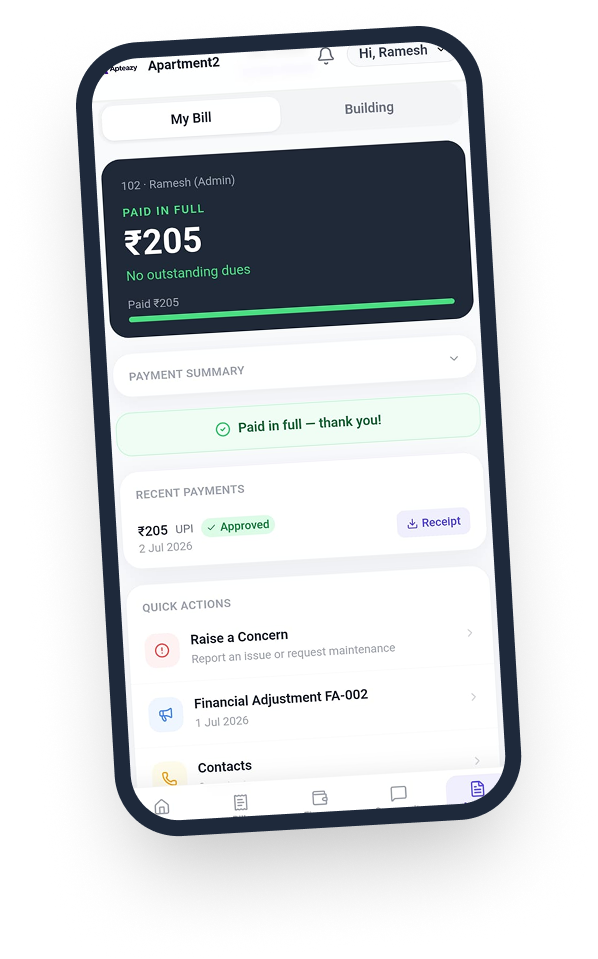
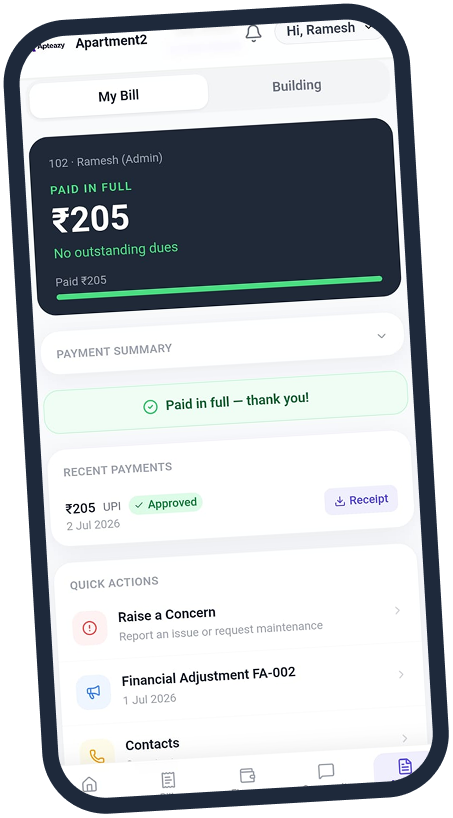
feat: add AppShowcase component with dual phone mockups and CTA buttons

Changed region(s): [[0.0, 0.0, 1.0, 1.0], [0.5563, 0.0917, 0.7108, 0.1222], [0.6799, 0.5196, 0.7726, 0.5501]]

diff --git a/src/components/AppShowcase.jsx b/src/components/AppShowcase.jsx
@@ -29,7 +29,7 @@ export default function AppShowcase() {
             }}
           />
 
-          {/* Background Wavy Lines from Reference Design */}
+          {/* Background Wavy Lines SVG */}
           <div className="absolute right-0 top-1/2 -translate-y-1/2 w-[480px] h-[360px] pointer-events-none opacity-40 z-0">
             <svg className="w-full h-full stroke-purple-300" fill="none" viewBox="0 0 400 300">
               <path d="M50 300 C 150 200, 250 250, 350 150 C 400 100, 450 50, 500 0" strokeWidth="1.5" strokeDasharray="6 4" />
@@ -43,7 +43,7 @@ export default function AppShowcase() {
 
           <div className="grid grid-cols-1 lg:grid-cols-12 gap-10 lg:gap-6 items-center relative z-10">
             
-            {/* Left Column: Headline, Subtitle, Buttons, Badges */}
+            {/* Left Column: Clean Bold Headline, Subtitle, Buttons, Badges */}
             <div className="lg:col-span-6 space-y-6 text-left">
               
               {/* Main Headline */}
@@ -53,7 +53,7 @@ export default function AppShowcase() {
                 More community.
                 <br />
                 <span>That’s </span>
-                <span className="text-[#635BFF]">Apteazy.</span>
+                <span className="text-[#635BFF] font-extrabold">Apteazy.</span>
               </h2>
 
               {/* Subtitle */}
@@ -78,14 +78,14 @@ export default function AppShowcase() {
                 <motion.button
                   whileHover={{ scale: 1.03, y: -2 }}
                   whileTap={{ scale: 0.98 }}
-                  onClick={() => openWhatsApp('Hi, I want to start a free trial of Apteazy for my apartment')}
-                  className="inline-flex items-center gap-2 px-6 py-3.5 rounded-2xl bg-white hover:bg-slate-50 text-[#0F172A] font-bold text-[14px] border border-[#E2E8F0] shadow-[0_4px_16px_rgba(0,0,0,0.04)] transition-colors cursor-pointer"
+                  onClick={() => openWhatsApp('Hi, I want to book a demo of Apteazy for my apartment')}
+                  className="inline-flex items-center gap-2 px-6 py-3.5 rounded-2xl bg-white hover:bg-slate-50 text-[#0F172A] font-bold text-[14px] border border-[#E2E8F0] shadow-xs transition-colors cursor-pointer"
                 >
                   <span>Book a Demo</span>
                 </motion.button>
               </div>
 
-              {/* Bottom Feature Badges matching reference screenshot */}
+              {/* Bottom Feature Badges */}
               <div className="flex flex-wrap items-center gap-x-6 gap-y-2 pt-3 text-[12.5px] font-semibold text-slate-600">
                 <div className="flex items-center gap-1.5">
                   <div className="w-4 h-4 rounded-full bg-purple-100 text-[#635BFF] flex items-center justify-center">
@@ -109,20 +109,20 @@ export default function AppShowcase() {
 
             </div>
 
-            {/* Right Column: Dual Phone Mockups cleanly formatted from assets */}
-            <div className="lg:col-span-6 flex justify-center items-center gap-3 sm:gap-5 pt-6 lg:pt-0">
+            {/* Right Column: Perfectly Aligned Dual Phone Mockups with Soft Natural Shadows */}
+            <div className="lg:col-span-6 flex justify-center items-center gap-4 sm:gap-6 pt-6 lg:pt-0">
               
-              {/* Left Phone (Standing straight) */}
+              {/* Left Phone */}
               <motion.div 
                 whileHover={{ y: -6, scale: 1.02 }}
                 transition={{ duration: 0.3 }}
-                className="w-1/2 max-w-[240px] flex-shrink-0"
+                className="w-1/2 max-w-[230px] flex-shrink-0"
               >
                 {!leftErr ? (
                   <img
                     src="/assets/showcase-phone-left.png"
                     alt="Apteazy Resident Home Screen"
-                    className="w-full h-auto object-contain drop-shadow-[0_20px_40px_rgba(99,91,255,0.16)]"
+                    className="w-full h-auto object-contain filter drop-shadow-[0_14px_28px_rgba(15,23,42,0.1)] transition-all duration-300 hover:drop-shadow-[0_20px_35px_rgba(99,91,255,0.18)]"
                     onError={() => setLeftErr(true)}
                   />
                 ) : (
@@ -132,17 +132,17 @@ export default function AppShowcase() {
                 )}
               </motion.div>
 
-              {/* Right Phone (Slightly offset) */}
+              {/* Right Phone */}
               <motion.div 
                 whileHover={{ y: -6, scale: 1.02 }}
                 transition={{ duration: 0.3 }}
-                className="w-1/2 max-w-[240px] flex-shrink-0 pt-6"
+                className="w-1/2 max-w-[230px] flex-shrink-0"
               >
                 {!rightErr ? (
                   <img
                     src="/assets/showcase-phone-right.png"
                     alt="Apteazy Notices Screen"
-                    className="w-full h-auto object-contain drop-shadow-[0_20px_40px_rgba(99,91,255,0.16)]"
+                    className="w-full h-auto object-contain filter drop-shadow-[0_14px_28px_rgba(15,23,42,0.1)] transition-all duration-300 hover:drop-shadow-[0_20px_35px_rgba(99,91,255,0.18)]"
                     onError={() => setRightErr(true)}
                   />
                 ) : (
